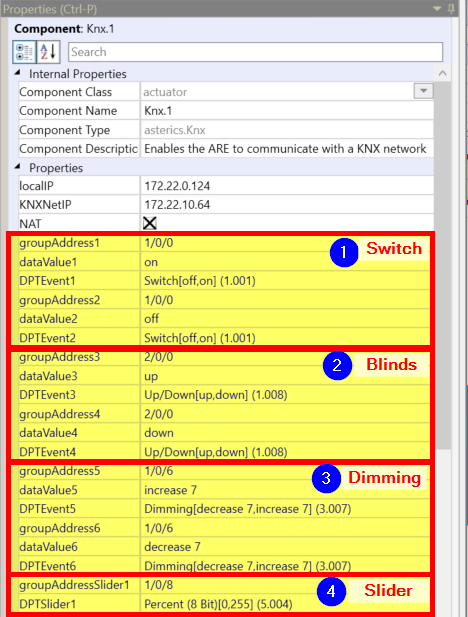
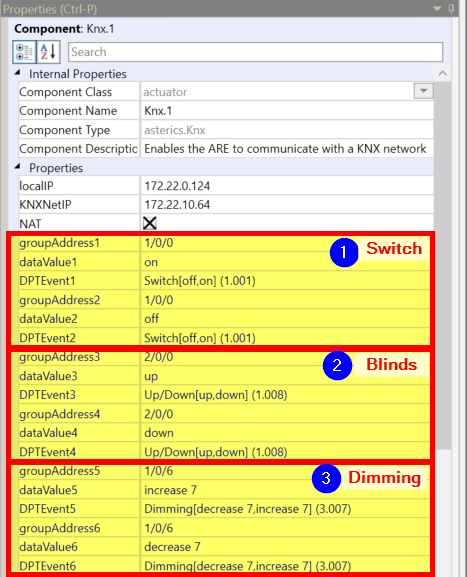
removed slider as absolute dimming with slider is not possible atm

diff --git a/custom/bin/ARE/web/webapps/asterics-smarthome-knx/index.html b/custom/bin/ARE/web/webapps/asterics-smarthome-knx/index.html
@@ -132,8 +132,8 @@
 					<ul>
 						<li>Switching (On/Off)</li>
 						<li>Blinds (Up/Down)</li>
-						<li>Dimming relative</li>
-						<li>Dimming absolute</li>
+						<li>Dimming (relative)</li>
+						<!--<li>Dimming absolute</li> -->
 					</ul>
 					<span class="sr-only">(current)</span></p>
 				</div><hr>
@@ -195,9 +195,9 @@
 					  <li>Dimming a light with buttons:</li>
 					  The light is controlled with two buttons. The group address is 1/0/6.
 
-					  <li>Dimming a light with a slider:</li>
+					 <!--  <li>Dimming a light with a slider:</li>
 					  The brightness of the light is controlled with the light. The group address is 1/0/8.
-					</ol>
+					</ol> -->
 						<img class="svgmodal" src="img/knx_groupaddresses.png" width="80%" alt="edit group addresses"/>
 					</div><hr>
 
@@ -213,10 +213,11 @@
           <input id="Switch_GroupAddress" type="text" placeholder="1/0/0" value="" data-asterics-model-binding-1='{"componentKey": "Knx.1","propertyKey": "groupAddress1"}' data-asterics-model-binding-2='{"componentKey": "Knx.1","propertyKey": "groupAddress2"}'></p>
           <p><label for="Blind_GroupAddress" title="Enter your local IP"> Group address for Shutters: </label>
           <input id="Blind_GroupAddress" type="text" placeholder="1/0/0" value="" data-asterics-model-binding-1='{"componentKey": "Knx.1","propertyKey": "groupAddress3"}' data-asterics-model-binding-2='{"componentKey": "Knx.1","propertyKey": "groupAddress4"}'></p>
-          <p><label for="DimmAbs_GroupAddres" title="Enter your local IP"> Group address for Dimming (relative): </label>
+           <!-- <p><label for="DimmAbs_GroupAddres" title="Enter your local IP"> Group address for Dimming (absolute): </label>
           <input id="DimmAbs_GroupAddres" type="text" placeholder="1/0/0" value="" data-asterics-model-binding-1='{"componentKey": "Knx.1","propertyKey": "groupAddress5"}' data-asterics-model-binding-2='{"componentKey": "Knx.1","propertyKey": "groupAddress6"}'></p>
-          <p><label for="DimmRel_GroupAddres" title="Enter your local IP"> Group address for Dimming (absolute):</label>
-          <input id="DimmRela_GroupAddres" type="text" placeholder="1/0/0" value="" data-asterics-model-binding-1='{"componentKey": "Knx.1","propertyKey": "groupAddressSlider1"}'></p>
+			-->          
+		  <p><label for="DimmRel_GroupAddres" title="Enter your local IP"> Group address for Dimming (relative):</label>
+         <input id="DimmRela_GroupAddres" type="text" placeholder="1/0/0" value="" data-asterics-model-binding-1='{"componentKey": "Knx.1","propertyKey": "groupAddressSlider1"}'></p>
 
 		  
 		  <p>
